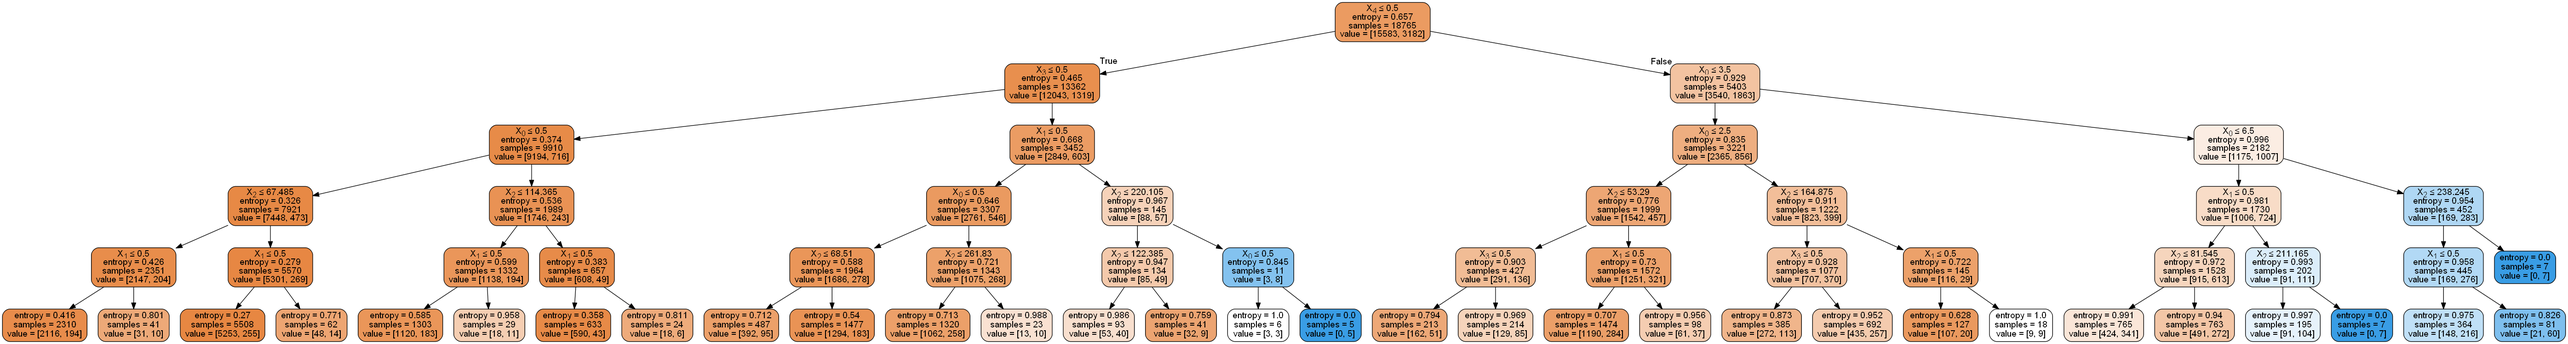
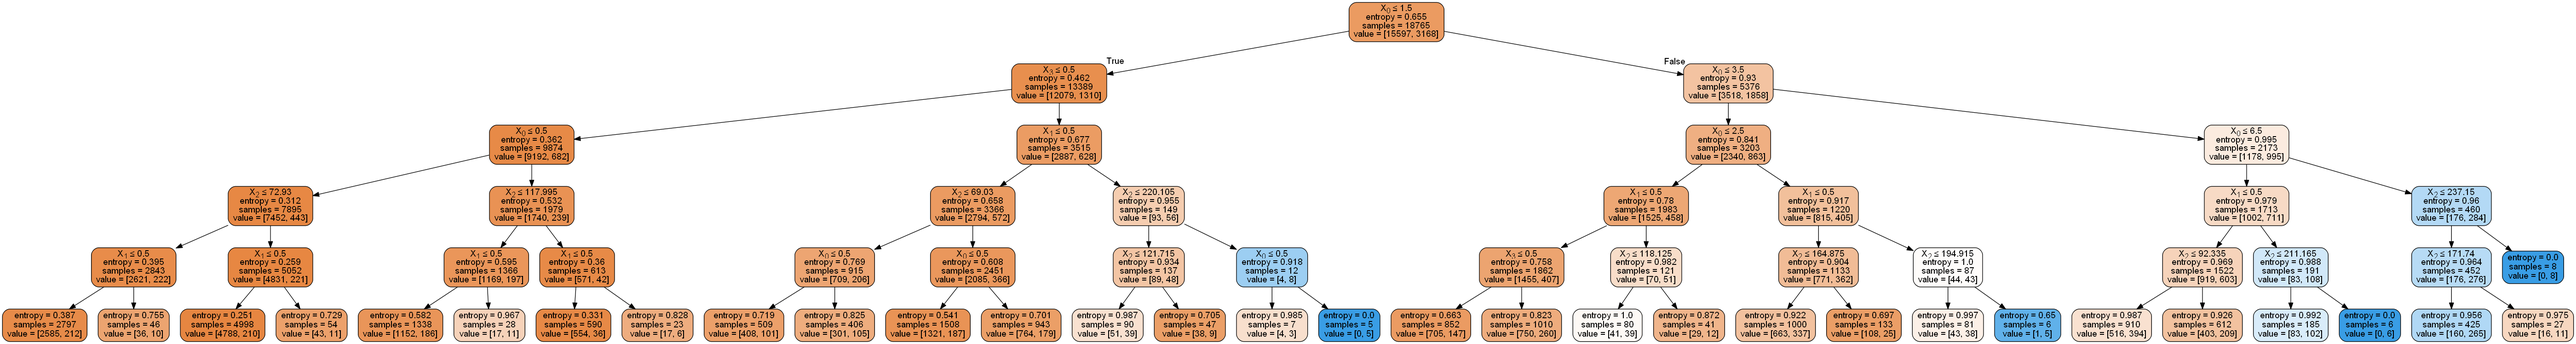
small fix

diff --git a/lab2/src/main.py b/lab2/src/main.py
@@ -96,7 +96,7 @@ def __main__():
     training_data, test_data = SplitDataByProportion(df, 90, 10)
     run1 = RunDecisionTree(['RESPONDED',  'WEB', 'AVRG', 'CC_CARD'], 'RESP', training_data, test_data, '4features.png')
     run2 = RunDecisionTree(['RESPONDED', 'WEB', 'AVRG',  'CC_CARD', 'derived_RESPONSE_TO_PROMOTION', 'derived_AVERAGE_SPENT'], 'RESP', training_data, test_data, '4features+2derived.png')
-    run3 = RunDecisionTree(["HHKEY", "ZIP_CODE", "REC", "FRE", "MON", "CC_CARD", "AVRG", "PSWEATERS", "PKNIT_TOPS", "PKNIT_DRES","PBLOUSES","PJACKETS","PCAR_PNTS","PCAS_PNTS","PSHIRTS","PDRESSES","PSUITS","POUTERWEAR","PJEWELRY","PFASHION","PLEGWEAR","PCOLLSPND","AMSPEND","PSSPEND","CCSPEND","AXSPEND","TMONSPEND","OMONSPEND","SMONSPEND","PREVPD","GMP","PROMOS","DAYS","FREDAYS","MARKDOWN","CLASSES","COUPONS","STYLES","STORES","STORELOY","WEB","MAILED","RESPONDED","RESPONSERATE","HI","LTFREDAY","CLUSTYPE","PERCRET",'derived_RESPONSE_TO_PROMOTION','derived_AVERAGE_SPENT'], 'PC_CALC20', training_data, test_data, 'allFeatures.png')
+    run3 = RunDecisionTree(["HHKEY", "ZIP_CODE", "REC", "FRE", "MON", "CC_CARD", "AVRG", "PSWEATERS", "PKNIT_TOPS", "PKNIT_DRES","PBLOUSES","PJACKETS","PCAR_PNTS","PCAS_PNTS","PSHIRTS","PDRESSES","PSUITS","POUTERWEAR","PJEWELRY","PFASHION","PLEGWEAR","PCOLLSPND","AMSPEND","PSSPEND","CCSPEND","AXSPEND","TMONSPEND","OMONSPEND","SMONSPEND","PREVPD","GMP","PROMOS","DAYS","FREDAYS","MARKDOWN","CLASSES","COUPONS","STYLES","STORES","STORELOY","WEB","MAILED","RESPONDED","RESPONSERATE","HI","LTFREDAY","CLUSTYPE","PERCRET",'derived_RESPONSE_TO_PROMOTION','derived_AVERAGE_SPENT'], 'RESP', training_data, test_data, 'allFeatures.png')
     run4_1 = RunDecisionTreeWithBagging(['RESPONDED', 'WEB', 'AVRG', 'CC_CARD'], 'RESP', training_data, test_data)
     run4_2 = RunDecisionTreeWithForest(['RESPONDED', 'WEB', 'AVRG', 'CC_CARD'], 'RESP', training_data, test_data)
     
